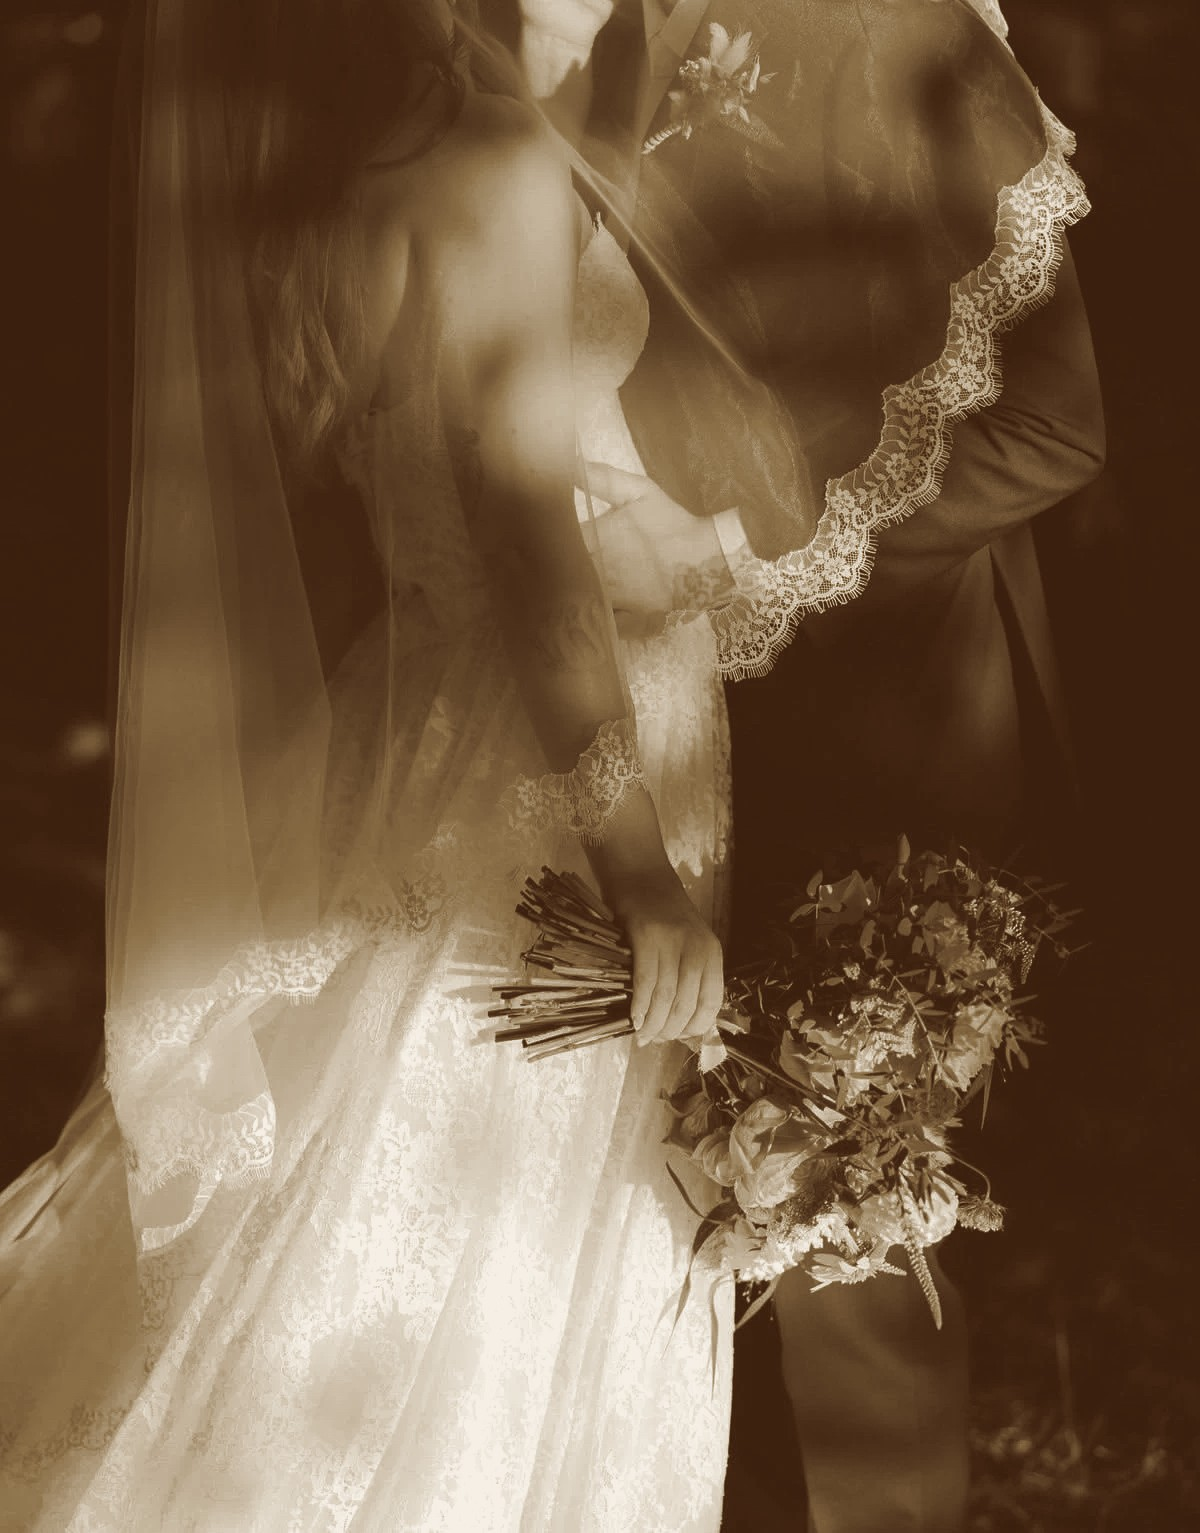
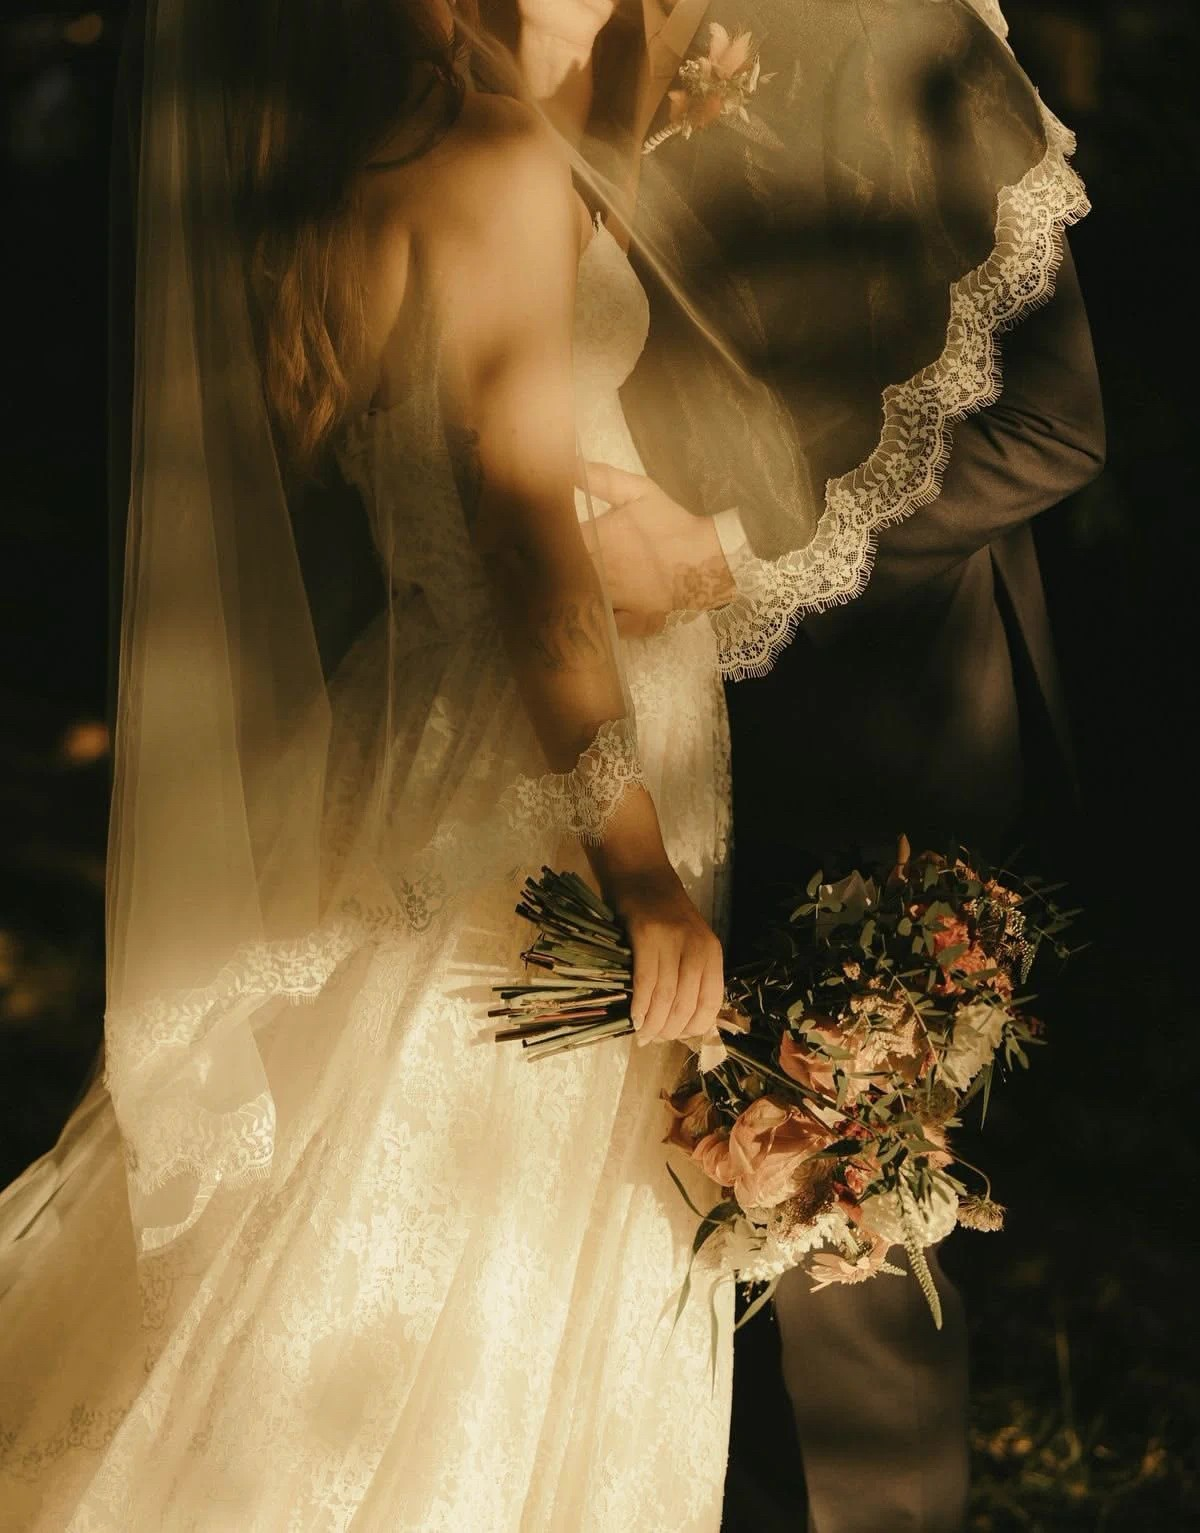
Add bride/bouquet photo (original tone) to Contact section
- Restore support-veil-embrace.jpg to its untouched original color
  grading (previously overwritten with a duotone treatment) per explicit
  feedback that the natural warm tonality already suits the brand
- Add it as a framed photo above the Fale Comigo copy in ContactSection,
  matching the site's existing photo-frame treatment (rounded corner,
  shadow), giving the final section on the page the same visual richness
  as the rest of the site

Claude-Session: https://claude.ai/code/session_01MjTRQ4qSkWSEFuKMrJ3dCk

diff --git a/client/src/components/ContactSection.tsx b/client/src/components/ContactSection.tsx
@@ -8,6 +8,14 @@ export default function ContactSection() {
     <section id="contato" className="scroll-mt-28 lg:scroll-mt-32 bg-cream py-24 lg:py-36">
       <div className="mx-auto grid max-w-6xl gap-14 px-4 sm:px-6 lg:grid-cols-2 lg:gap-20 lg:px-8">
         <Reveal>
+          <div className="relative mb-9 h-56 w-full overflow-hidden rounded-lg rounded-tr-[3rem] shadow-lg sm:h-64">
+            <img
+              src="/assets/support-veil-embrace.jpg"
+              alt=""
+              aria-hidden
+              className="h-full w-full object-cover object-[50%_20%]"
+            />
+          </div>
           <Eyebrow>Fale Comigo</Eyebrow>
           <h2 className="max-w-md text-[1.85rem] font-normal leading-[1.25] tracking-tight text-coffee sm:text-[2.15rem]">
             O primeiro passo é uma conversa
